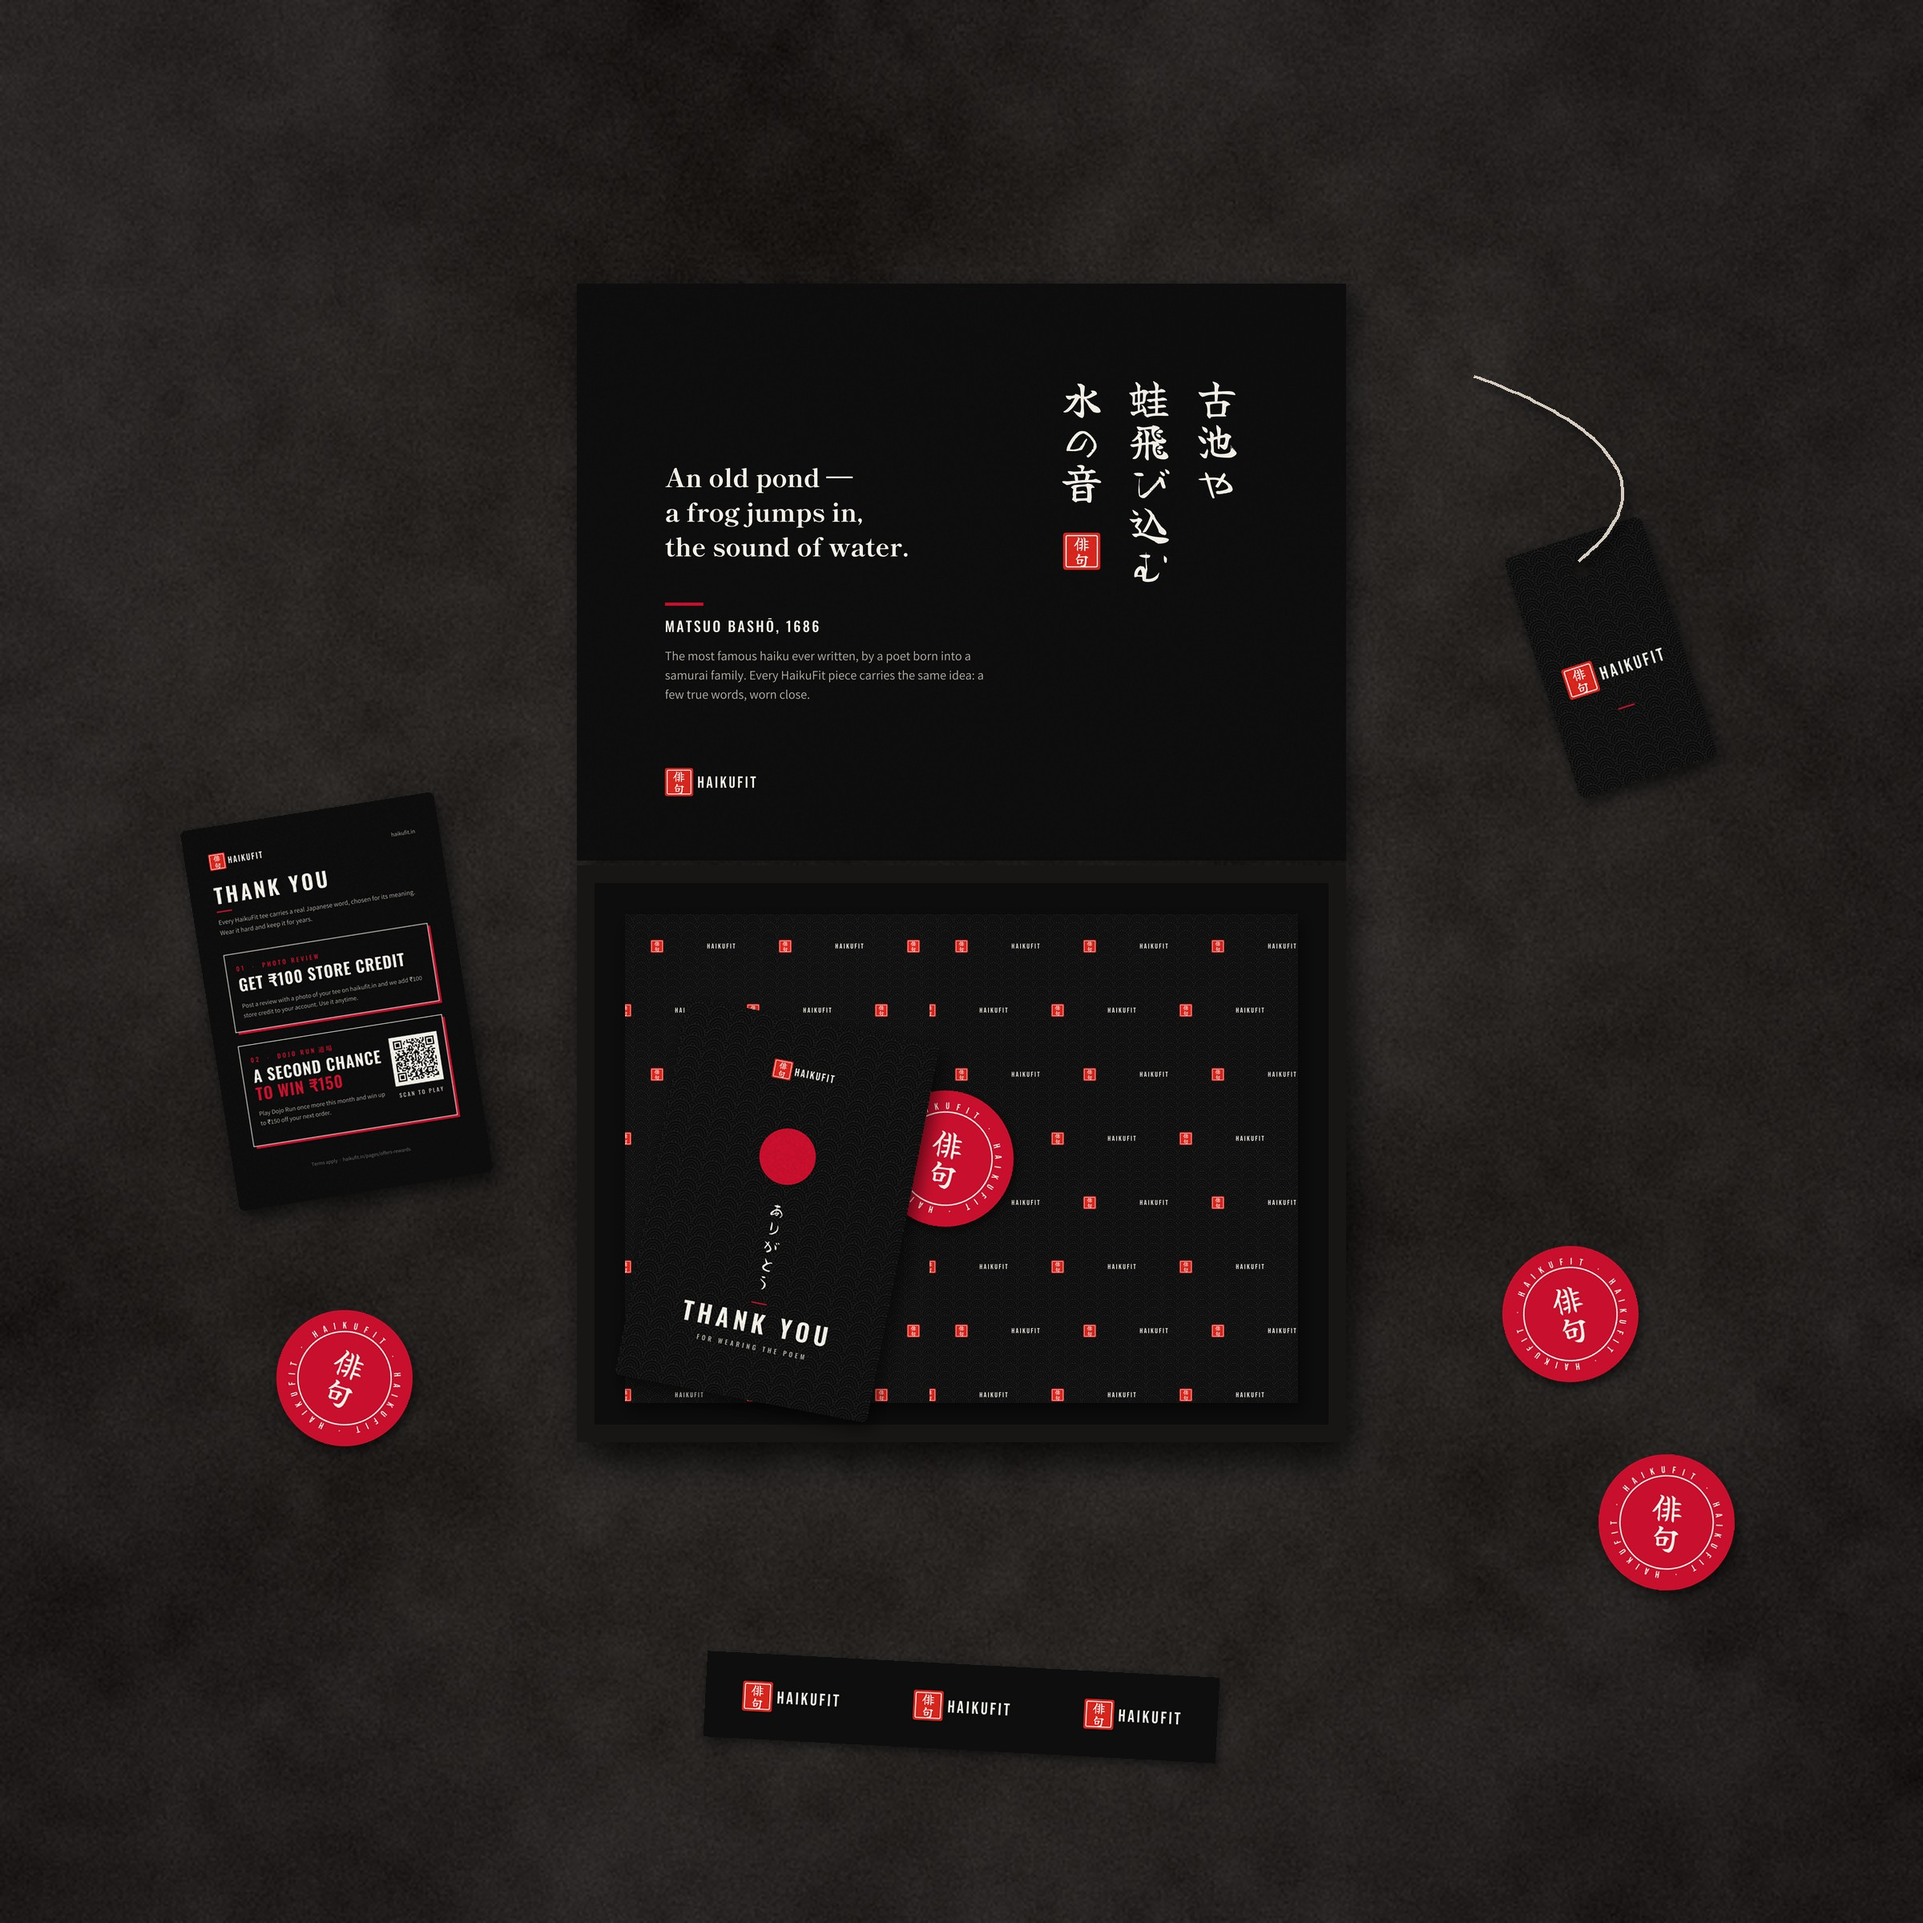
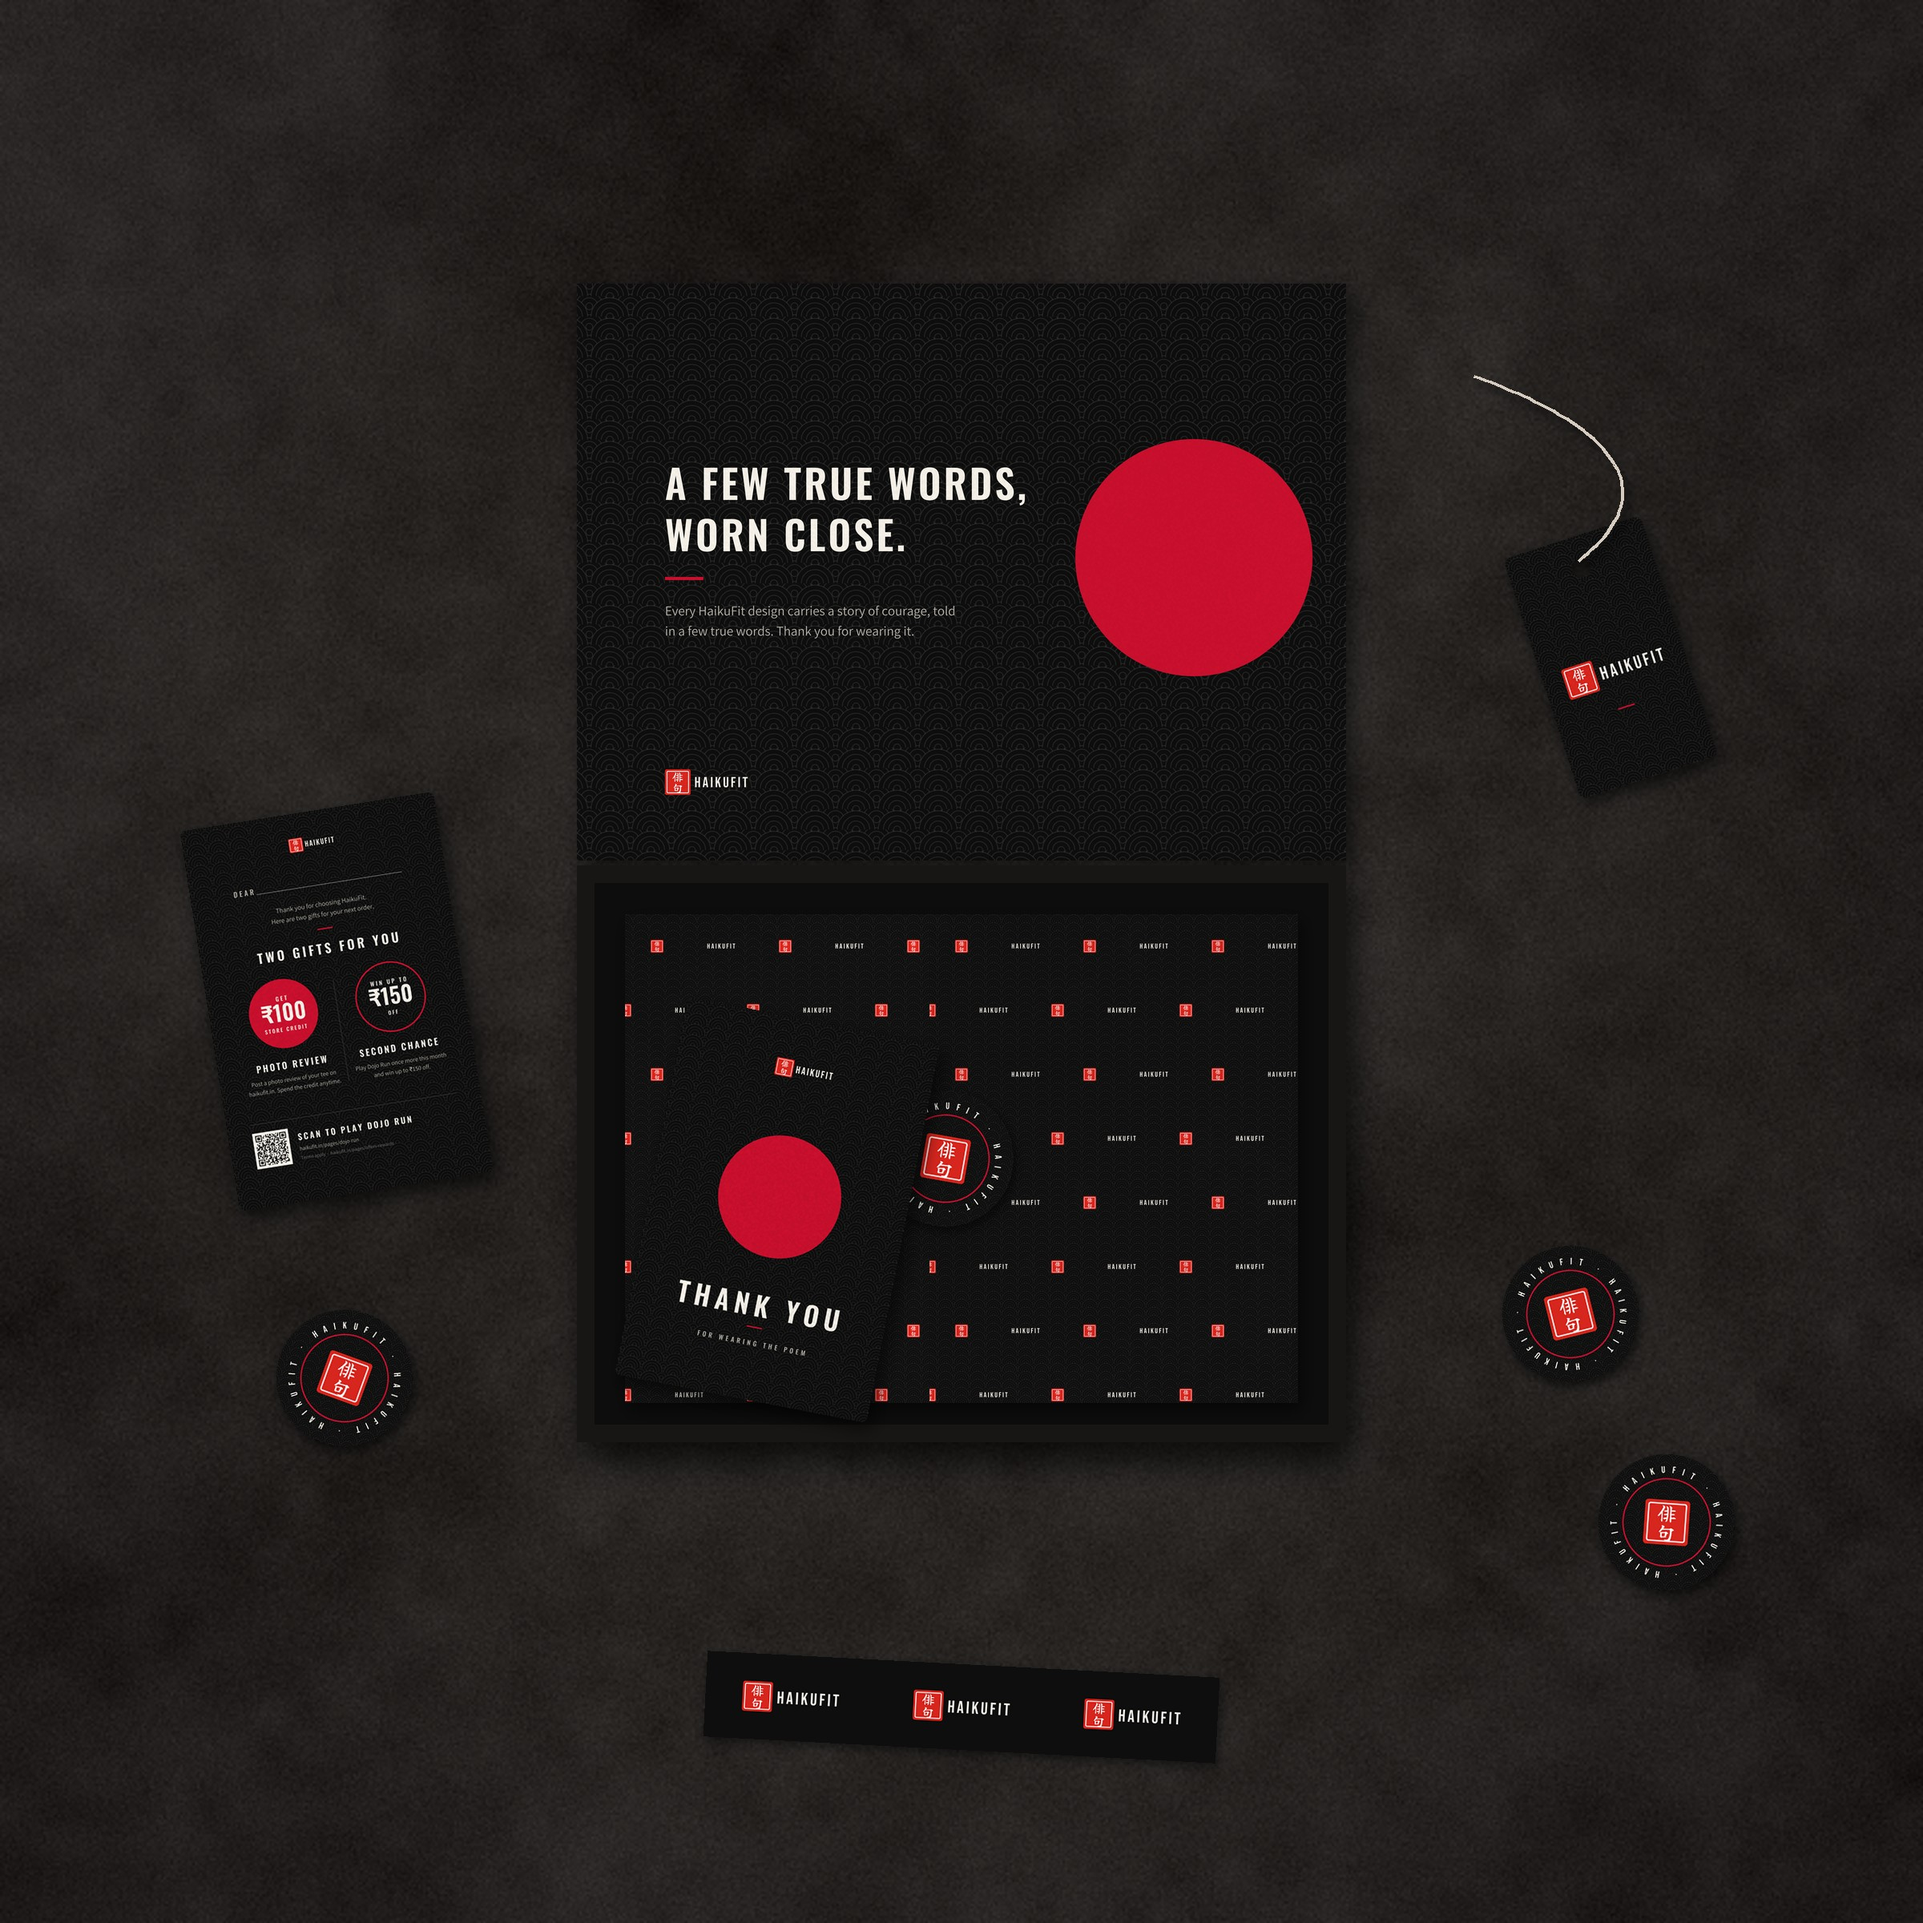
Packaging: drop Japanese text, poster-style card back, name line
- remove Japanese copy from all packaging (logo seal unchanged) so it suits
  future non-Japanese collaborations; lid inside gets an English statement
- thank-you card back: 'Dear ____' handwriting line, two gifts shown as red
  sun badges (Rs 100 photo-review credit, Rs 150 Dojo Run second chance),
  QR strip at the foot instead of boxed panels
- hang tag back: no write-in fields
- sticker uses the logo seal on black

Claude-Session: https://claude.ai/code/session_01K7yJ4fs8vgVN9B841zac37

diff --git a/designs/packaging/mockups_pack.py b/designs/packaging/mockups_pack.py
@@ -165,11 +165,11 @@ def tissue_parcel(w, h, tile_px, seed=5):
 
 def thank_you():
     c = surface(2400, 2400, seed=11)
-    front = rounded(cardstock(load('thankyou-card-front', 880)), 10)
-    back = rounded(cardstock(load('thankyou-card-back', 880), amp=4), 10)
-    place(c, back, 1520, 1260, -6)
-    place(c, front, 860, 1150, 7)
-    place(c, load('sticker-round', 330, trim=False).crop((0, 0, 330, 330)), 1950, 470, 12, blur=10, off=(6, 10))
+    front = rounded(cardstock(load('thankyou-card-front', 900)), 10)
+    back = rounded(cardstock(load('thankyou-card-back', 900), amp=4), 10)
+    place(c, front, 700, 1240, -4)
+    place(c, back, 1700, 1180, 3)
+    place(c, load('sticker-round', 300, trim=False).crop((0, 0, 300, 300)), 1180, 2050, 12, blur=10, off=(6, 10))
     return c
 
 
